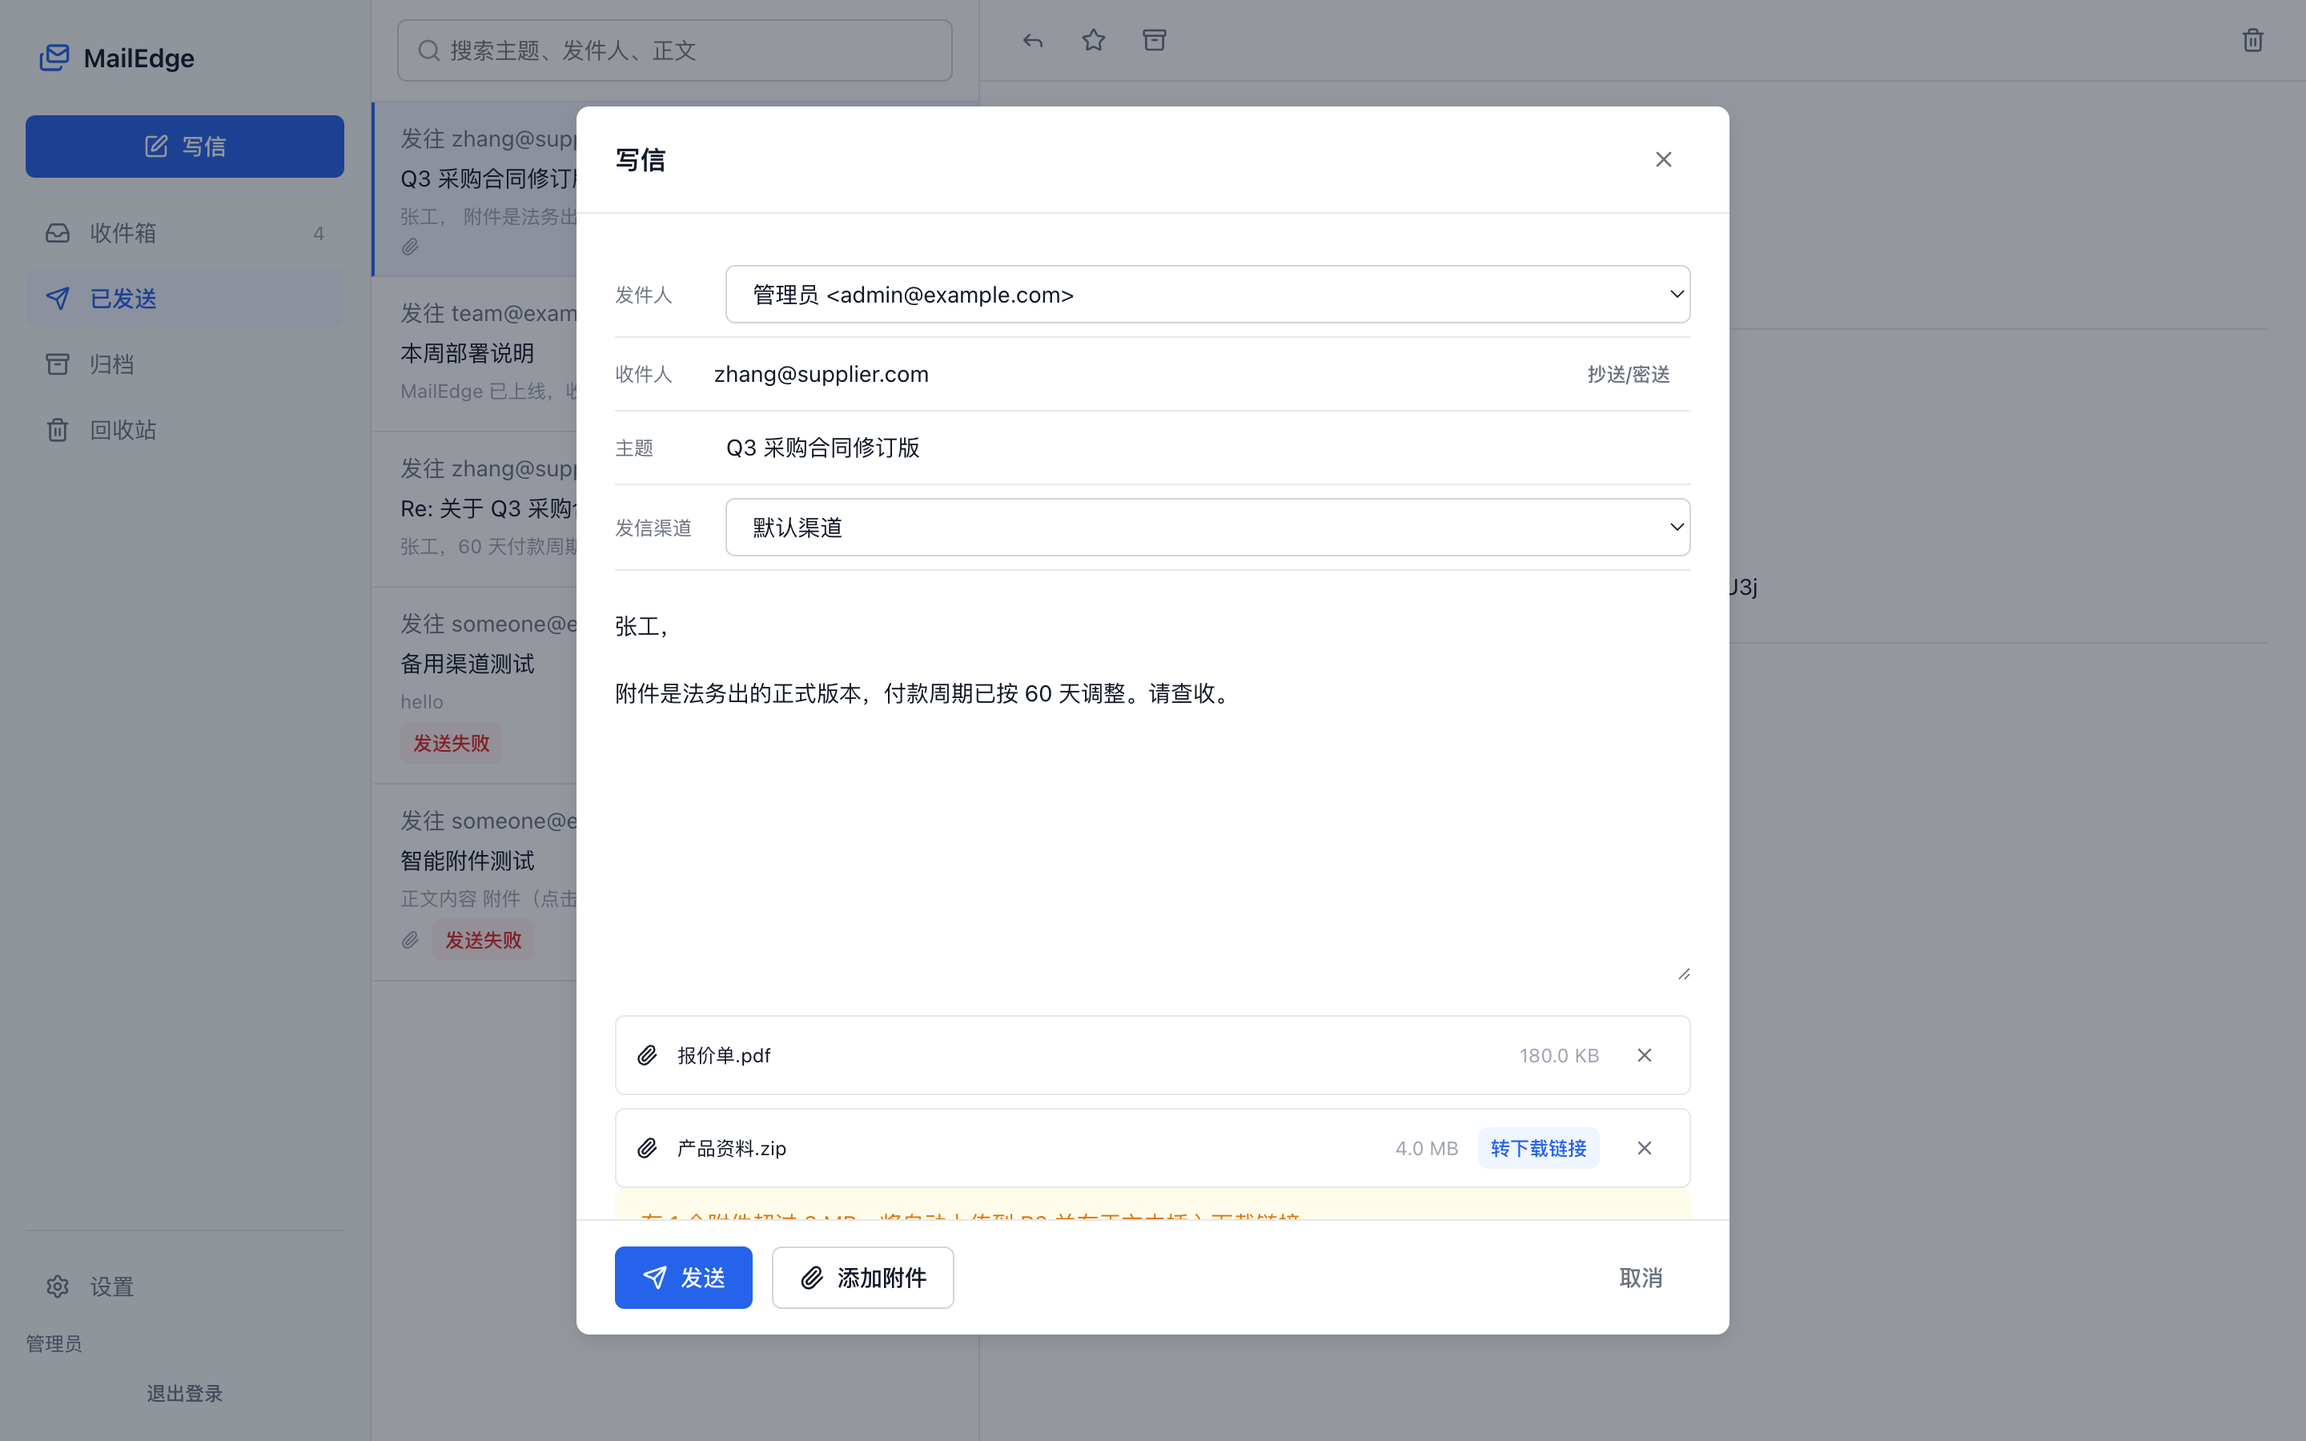
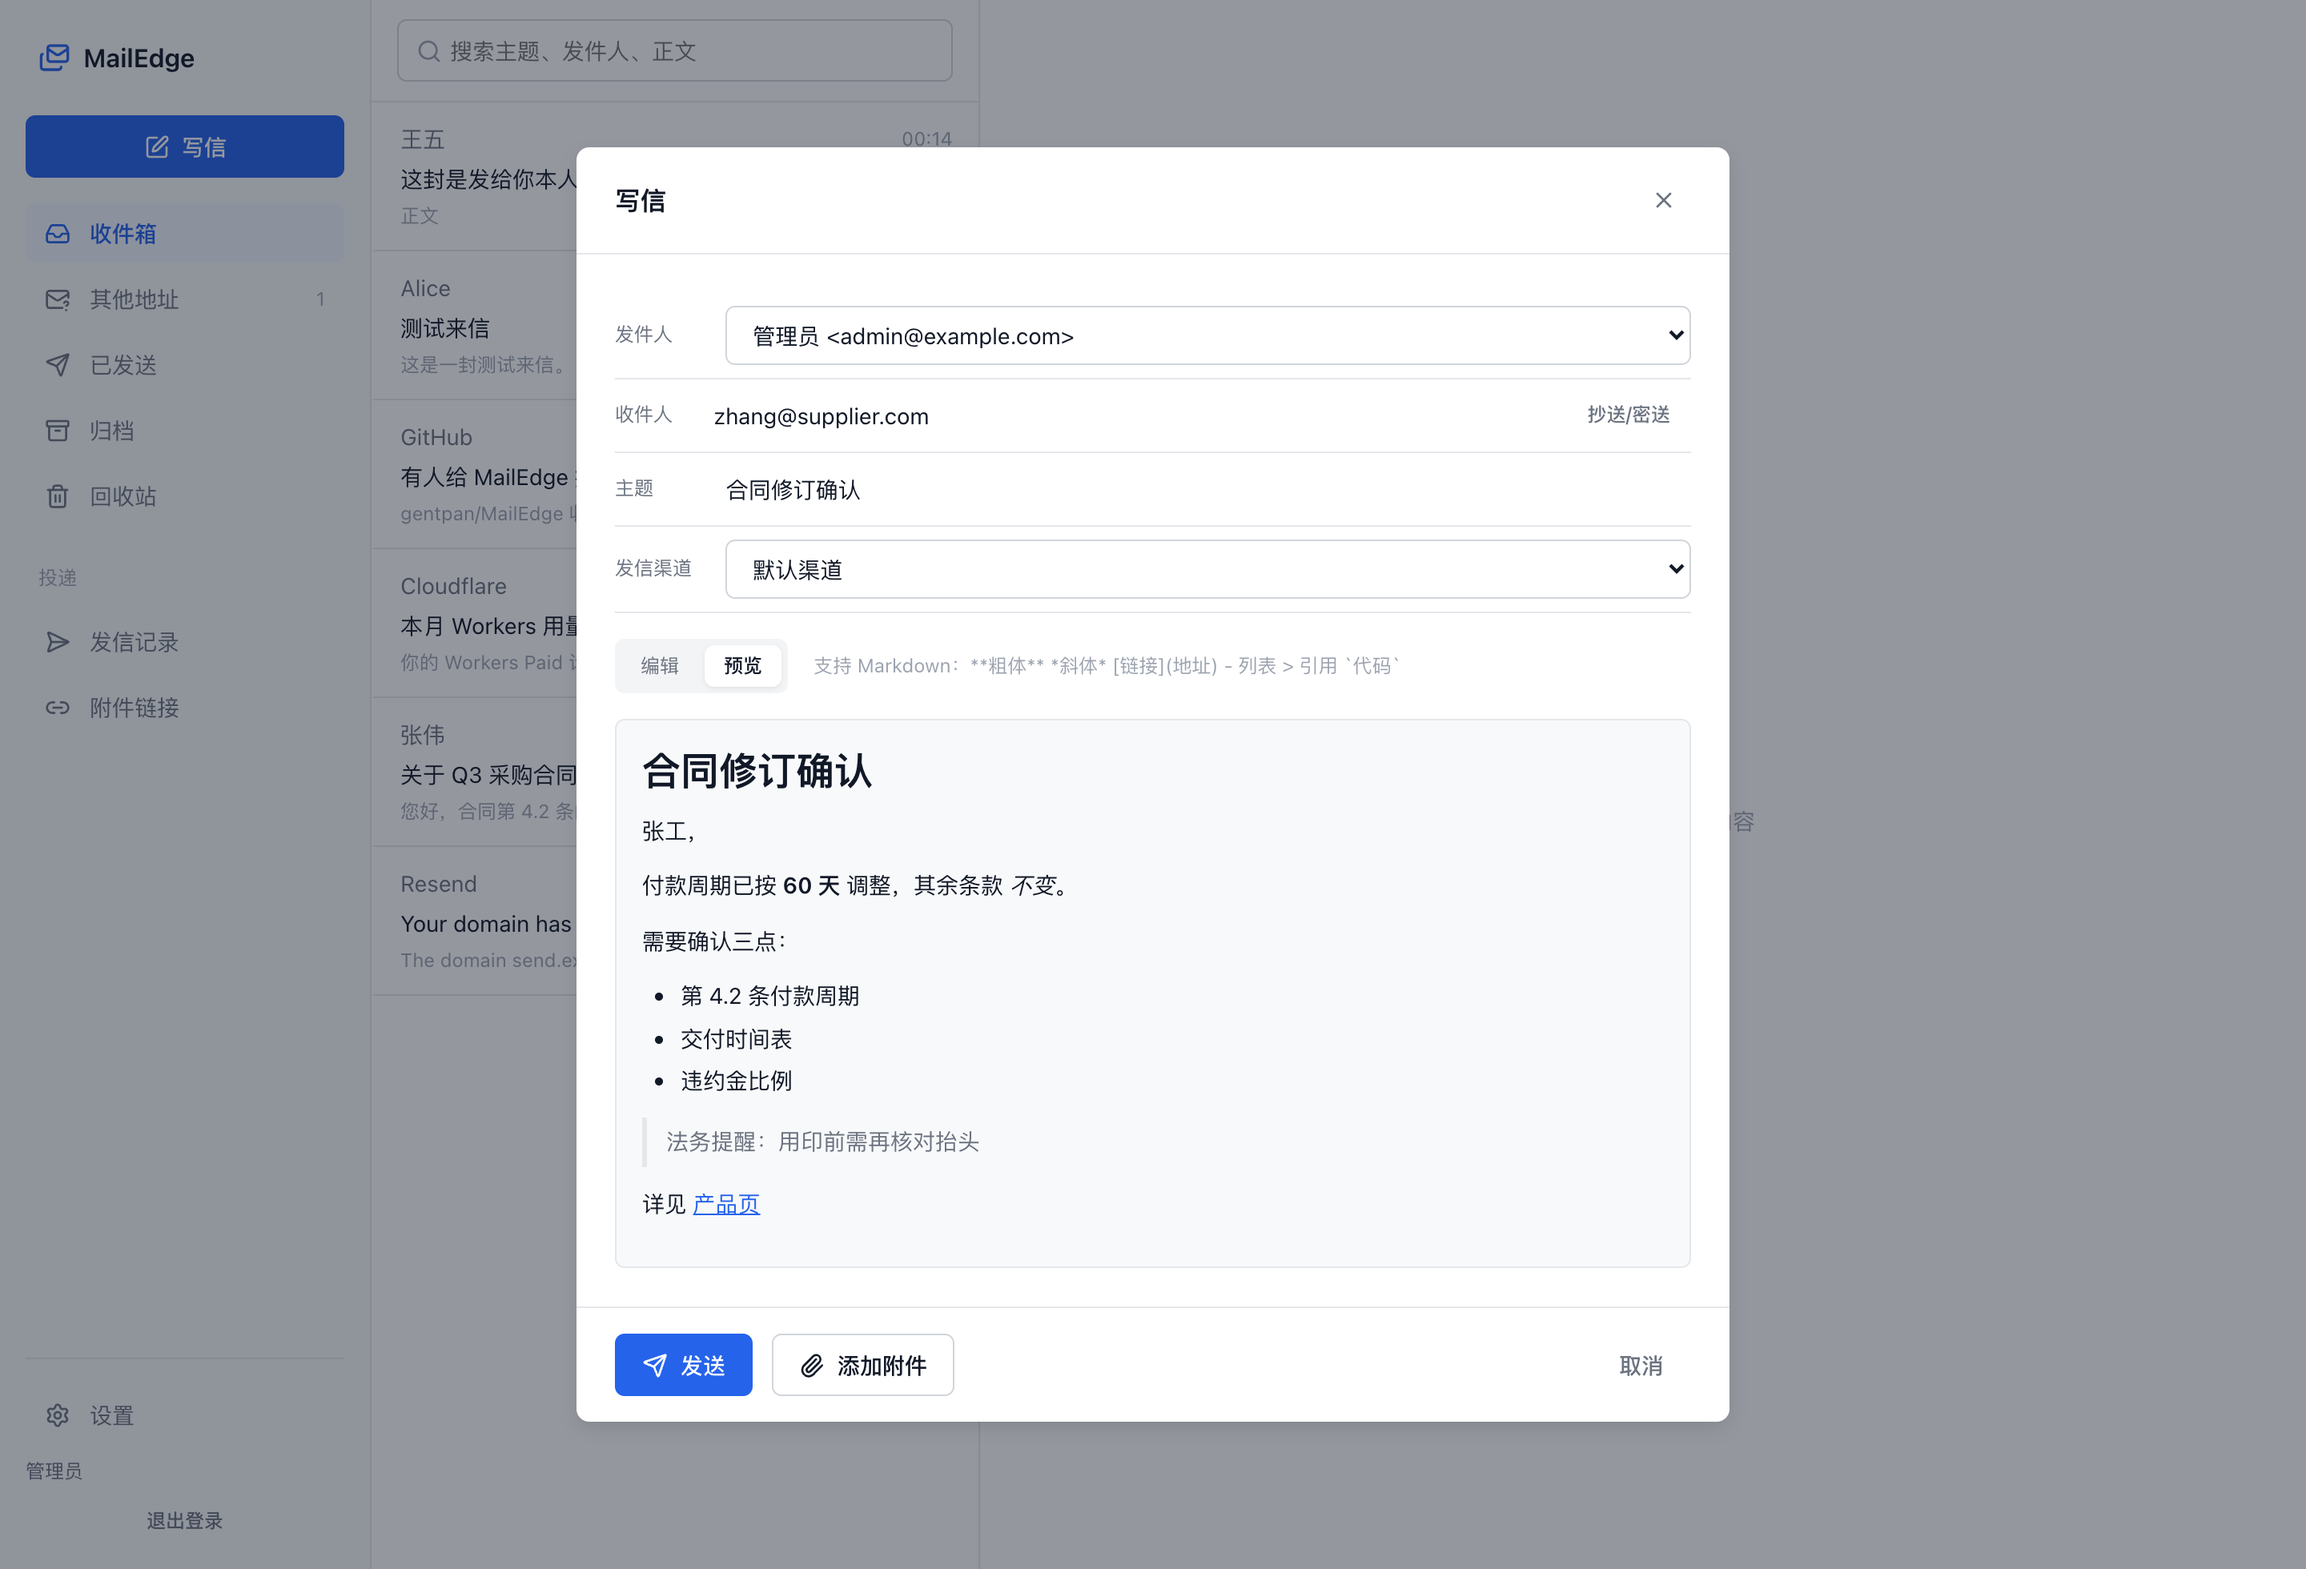
写信支持 Markdown，发送时转成邮件安全 HTML
- 新增 shared/markdown.ts：前后端共用，直接输出内联样式的 HTML
  （邮件客户端会剥掉 <style>、不认 class，所以不做二次内联处理）
- 写信框加编辑/预览切换，预览用的正是发送时那份 HTML，所见即所发
- Markdown 原文作为 text/plain 版本，转换结果作为 text/html
- API 新增 markdown 字段，脚本调用也能用
- 输入一律转义；非 http(s)/mailto 链接降级为纯文字，不回显地址

diff --git a/src/shared/markdown.ts b/src/shared/markdown.ts
@@ -1,0 +1,173 @@
+/**
+ * Markdown → 邮件安全 HTML。
+ *
+ * 邮件客户端的限制和网页完全不同：<style> 标签会被剥掉、class 无效、
+ * flex/grid 在 Outlook 里不工作。所以这里直接输出内联样式的 HTML，
+ * 不做二次处理。前端预览与实际发送共用本函数，所见即所发。
+ *
+ * 输入一律先转义，用户写的原始 HTML 不会被执行。
+ */
+
+// 占位符使用 Unicode 私用区，避免正文里出现同形文本被误替换
+const BLOCK_MARK = "";
+const CODE_MARK = "";
+const END_MARK = "";
+
+const S = {
+  root: "font-family:-apple-system,BlinkMacSystemFont,'Segoe UI','PingFang SC','Microsoft YaHei',sans-serif;font-size:14px;line-height:1.6;color:#111827;",
+  p: "margin:0 0 12px;",
+  h1: "margin:0 0 12px;font-size:24px;font-weight:600;line-height:1.25;",
+  h2: "margin:20px 0 12px;font-size:20px;font-weight:600;line-height:1.25;",
+  h3: "margin:16px 0 8px;font-size:16px;font-weight:600;line-height:1.25;",
+  ul: "margin:0 0 12px;padding-left:24px;",
+  ol: "margin:0 0 12px;padding-left:24px;",
+  li: "margin-bottom:4px;",
+  quote: "margin:0 0 12px;padding:4px 0 4px 12px;border-left:3px solid #e5e7eb;color:#6b7280;",
+  pre: "margin:0 0 12px;padding:12px;background:#f8f9fa;border-radius:6px;overflow-x:auto;font-family:ui-monospace,SFMono-Regular,Menlo,monospace;font-size:13px;line-height:1.5;",
+  code: "padding:2px 5px;background:#f3f4f6;border-radius:4px;font-family:ui-monospace,SFMono-Regular,Menlo,monospace;font-size:13px;",
+  a: "color:#2563eb;text-decoration:underline;",
+  hr: "border:none;border-top:1px solid #e5e7eb;margin:20px 0;",
+  strong: "font-weight:600;",
+};
+
+export function markdownToEmailHtml(markdown: string): string {
+  const source = markdown.replace(/\r\n/g, "\n");
+
+  // 代码块先抽出来占位，内部不参与后续的行内解析
+  const blocks: string[] = [];
+  const withoutBlocks = source.replace(/```([\s\S]*?)```/g, (_match, code: string) => {
+    const body = String(code).replace(/^[^\n]*\n/, "").replace(/\n$/, "");
+    blocks.push('<pre style="' + S.pre + '">' + escapeHtml(body) + "</pre>");
+    return "\n" + BLOCK_MARK + (blocks.length - 1) + END_MARK + "\n";
+  });
+
+  const lines = withoutBlocks.split("\n");
+  const out: string[] = [];
+  let listType: "ul" | "ol" | null = null;
+  let paragraph: string[] = [];
+  let quote: string[] = [];
+
+  const flushParagraph = () => {
+    if (!paragraph.length) return;
+    out.push('<p style="' + S.p + '">' + inline(paragraph.join("<br>")) + "</p>");
+    paragraph = [];
+  };
+  const flushList = () => {
+    if (!listType) return;
+    out.push("</" + listType + ">");
+    listType = null;
+  };
+  const flushQuote = () => {
+    if (!quote.length) return;
+    out.push('<blockquote style="' + S.quote + '">' + inline(quote.join("<br>")) + "</blockquote>");
+    quote = [];
+  };
+  const flushAll = () => {
+    flushParagraph();
+    flushList();
+    flushQuote();
+  };
+
+  for (const raw of lines) {
+    const line = raw.trimEnd();
+    const trimmed = line.trim();
+
+    const placeholder = new RegExp("^" + BLOCK_MARK + "(\\d+)" + END_MARK + "$").exec(trimmed);
+    if (placeholder) {
+      flushAll();
+      out.push(blocks[Number(placeholder[1])] ?? "");
+      continue;
+    }
+
+    if (!trimmed) {
+      flushAll();
+      continue;
+    }
+
+    if (/^(-{3,}|\*{3,}|_{3,})$/.test(trimmed)) {
+      flushAll();
+      out.push('<hr style="' + S.hr + '">');
+      continue;
+    }
+
+    const heading = /^(#{1,3})\s+(.*)$/.exec(line);
+    if (heading) {
+      flushAll();
+      const level = heading[1]!.length as 1 | 2 | 3;
+      const style = level === 1 ? S.h1 : level === 2 ? S.h2 : S.h3;
+      out.push("<h" + level + ' style="' + style + '">' + inline(escapeHtml(heading[2] ?? "")) + "</h" + level + ">");
+      continue;
+    }
+
+    const quoted = /^>\s?(.*)$/.exec(line);
+    if (quoted) {
+      flushParagraph();
+      flushList();
+      quote.push(escapeHtml(quoted[1] ?? ""));
+      continue;
+    }
+    flushQuote();
+
+    const bullet = /^\s*[-*+]\s+(.*)$/.exec(line);
+    const numbered = /^\s*\d+[.)]\s+(.*)$/.exec(line);
+    if (bullet || numbered) {
+      flushParagraph();
+      const wanted = bullet ? "ul" : "ol";
+      if (listType !== wanted) {
+        flushList();
+        listType = wanted;
+        out.push("<" + wanted + ' style="' + (wanted === "ul" ? S.ul : S.ol) + '">');
+      }
+      const text = (bullet ?? numbered)![1] ?? "";
+      out.push('<li style="' + S.li + '">' + inline(escapeHtml(text)) + "</li>");
+      continue;
+    }
+    flushList();
+
+    paragraph.push(escapeHtml(line));
+  }
+
+  flushAll();
+  return '<div style="' + S.root + '">' + out.join("") + "</div>";
+}
+
+/** 行内语法。传入的文本必须已经过 HTML 转义。 */
+function inline(text: string): string {
+  const codes: string[] = [];
+
+  let result = text.replace(/`([^`]+)`/g, (_m, code: string) => {
+    codes.push('<code style="' + S.code + '">' + code + "</code>");
+    return CODE_MARK + (codes.length - 1) + END_MARK;
+  });
+
+  // [文字](地址)
+  // 地址允许含一层成对括号，避免 foo(1) 这类地址被截断后留下残余右括号
+  result = result.replace(/\[([^\]]+)\]\(((?:[^()\s]|\([^()]*\))+)\)/g, (_m, label: string, href: string) =>
+    // 非 http(s)/mailto 的链接一律降级为纯文字，且不回显地址，避免诱导手动访问
+    isSafeUrl(href) ? '<a href="' + href + '" style="' + S.a + '">' + label + "</a>" : label,
+  );
+
+  // 裸链接（前面已被转成 <a> 的不会再匹配，因为紧邻字符是引号）
+  result = result.replace(
+    /(^|[\s(])(https?:\/\/[^\s<)]+)/g,
+    (_m, prefix: string, url: string) => prefix + '<a href="' + url + '" style="' + S.a + '">' + url + "</a>",
+  );
+
+  result = result
+    .replace(/\*\*([^*]+)\*\*/g, '<strong style="' + S.strong + '">$1</strong>')
+    .replace(/(^|[^*])\*([^*\n]+)\*/g, "$1<em>$2</em>");
+
+  return result.replace(new RegExp(CODE_MARK + "(\\d+)" + END_MARK, "g"), (_m, index: string) => codes[Number(index)] ?? "");
+}
+
+function isSafeUrl(url: string): boolean {
+  return /^(https?:\/\/|mailto:)/i.test(url);
+}
+
+export function escapeHtml(value: string): string {
+  return value
+    .replace(/&/g, "&amp;")
+    .replace(/</g, "&lt;")
+    .replace(/>/g, "&gt;")
+    .replace(/"/g, "&quot;");
+}

diff --git a/web/src/components/ComposeModal.tsx b/web/src/components/ComposeModal.tsx
@@ -3,6 +3,7 @@ import { Paperclip, Send, X } from "lucide-react";
 import { api } from "../lib/api";
 import type { Mailbox, ProviderView, SendResponse } from "../lib/api";
 import { PROVIDER_LABELS, formatSize } from "../lib/format";
+import { markdownToEmailHtml } from "../../../src/shared/markdown";
 
 export interface ComposeDraft {
   to?: string;
@@ -37,6 +38,7 @@ export default function ComposeModal({
   const [showExtra, setShowExtra] = useState(Boolean(draft?.cc));
   const [subject, setSubject] = useState(draft?.subject ?? "");
   const [text, setText] = useState(draft?.text ?? "");
+  const [mode, setMode] = useState<"edit" | "preview">("edit");
   const [files, setFiles] = useState<File[]>([]);
   const [providerId, setProviderId] = useState("");
   const [error, setError] = useState<string | null>(null);
@@ -57,8 +59,8 @@ export default function ComposeModal({
           cc: cc ? cc.split(/[,;]/) : undefined,
           bcc: bcc ? bcc.split(/[,;]/) : undefined,
           subject,
-          text,
-          html: textToHtml(text),
+          // 交给服务端转换：Markdown 原文作为纯文本版本，转换结果作为 HTML 版本
+          markdown: text,
           providerId: providerId || undefined,
         },
         files,
@@ -148,12 +150,45 @@ export default function ComposeModal({
             </div>
           )}
 
-          <textarea
-            className="compose-body"
-            value={text}
-            placeholder="写点什么…"
-            onChange={(event) => setText(event.target.value)}
-          />
+          <div className="compose-toolbar">
+            <div className="tabs">
+              <button
+                type="button"
+                className={`tab${mode === "edit" ? " tab--active" : ""}`}
+                onClick={() => setMode("edit")}
+              >
+                编辑
+              </button>
+              <button
+                type="button"
+                className={`tab${mode === "preview" ? " tab--active" : ""}`}
+                onClick={() => setMode("preview")}
+              >
+                预览
+              </button>
+            </div>
+            <span className="text-xs text-tertiary">
+              支持 Markdown：**粗体** *斜体* [链接](地址) - 列表 &gt; 引用 `代码`
+            </span>
+          </div>
+
+          {mode === "edit" ? (
+            <textarea
+              className="compose-body"
+              value={text}
+              placeholder="写点什么…支持 Markdown"
+              onChange={(event) => setText(event.target.value)}
+            />
+          ) : (
+            <div className="compose-preview">
+              {text.trim() ? (
+                // 预览用的正是发送时生成的那份 HTML，所见即所发
+                <div dangerouslySetInnerHTML={{ __html: markdownToEmailHtml(text) }} />
+              ) : (
+                <p className="text-xs text-tertiary">还没有内容</p>
+              )}
+            </div>
+          )}
 
           {files.length > 0 && (
             <div className="file-list">
@@ -213,11 +248,3 @@ export default function ComposeModal({
   );
 }
 
-function textToHtml(text: string): string {
-  const escaped = text
-    .replace(/&/g, "&amp;")
-    .replace(/</g, "&lt;")
-    .replace(/>/g, "&gt;")
-    .replace(/\n/g, "<br>");
-  return `<div style="font-family:-apple-system,BlinkMacSystemFont,'Segoe UI',sans-serif;font-size:14px;line-height:1.5;color:#111827;">${escaped}</div>`;
-}

diff --git a/src/api/send.ts b/src/api/send.ts
@@ -7,6 +7,7 @@ import { appendShareSection, prepareAttachments } from "../mail/attachments";
 import type { IncomingAttachment } from "../mail/attachments";
 import { dispatch } from "../mail/dispatcher";
 import type { MailAddress, SendMailInput } from "../mail/types";
+import { markdownToEmailHtml } from "../shared/markdown";
 import { requireAuth } from "./auth";
 import type { AppContext } from "./context";
 
@@ -227,6 +228,8 @@ interface RawSendBody {
   subject?: string;
   html?: string;
   text?: string;
+  /** 传 markdown 时由服务端转成 HTML，同时把原文作为纯文本版本 */
+  markdown?: string;
   headers?: Record<string, string>;
   providerId?: string;
   attachments?: Array<{ filename: string; contentType: string; content: string; contentId?: string }>;
@@ -236,6 +239,11 @@ function buildInput(body: RawSendBody, attachments: IncomingAttachment[]): Parse
   const from = normalizeAddress(body.from);
   if (!from) return { error: "缺少发件地址" };
 
+  // Markdown 原文本身就是可读的纯文本，正好作为 text/plain 版本
+  const markdown = body.markdown?.trim() ? body.markdown : undefined;
+  const html = markdown ? markdownToEmailHtml(markdown) : body.html;
+  const text = markdown ?? body.text;
+
   const to = normalizeList(body.to);
   const input: SendMailInput = {
     from,
@@ -244,8 +252,8 @@ function buildInput(body: RawSendBody, attachments: IncomingAttachment[]): Parse
     bcc: normalizeList(body.bcc),
     replyTo: normalizeAddress(body.replyTo) ?? undefined,
     subject: body.subject?.trim() || "(无主题)",
-    html: body.html,
-    text: body.text,
+    html,
+    text,
     headers: body.headers,
   };
 

diff --git a/web/src/styles/app.css b/web/src/styles/app.css
@@ -667,6 +667,49 @@
   border: none;
 }
 
+.compose-toolbar {
+  display: flex;
+  align-items: center;
+  gap: var(--space-4);
+  margin-top: var(--space-4);
+  padding-bottom: var(--space-2);
+}
+
+.tabs {
+  display: flex;
+  gap: var(--space-1);
+  padding: var(--space-1);
+  border-radius: var(--radius-sm);
+  background: var(--color-neutral-100);
+}
+
+.tab {
+  padding: var(--space-1) var(--space-3);
+  border: none;
+  border-radius: var(--radius-sm);
+  background: transparent;
+  color: var(--color-text-secondary);
+  font-size: var(--text-xs);
+  cursor: pointer;
+}
+
+.tab--active {
+  background: var(--color-neutral-0);
+  color: var(--color-text);
+  font-weight: var(--weight-medium);
+  box-shadow: var(--shadow-1);
+}
+
+.compose-preview {
+  min-height: 240px;
+  padding: var(--space-4);
+  margin-top: var(--space-2);
+  border: 1px solid var(--color-border);
+  border-radius: var(--radius-sm);
+  background: var(--color-bg-subtle);
+  overflow-x: auto;
+}
+
 .compose-body {
   width: 100%;
   min-height: 240px;
